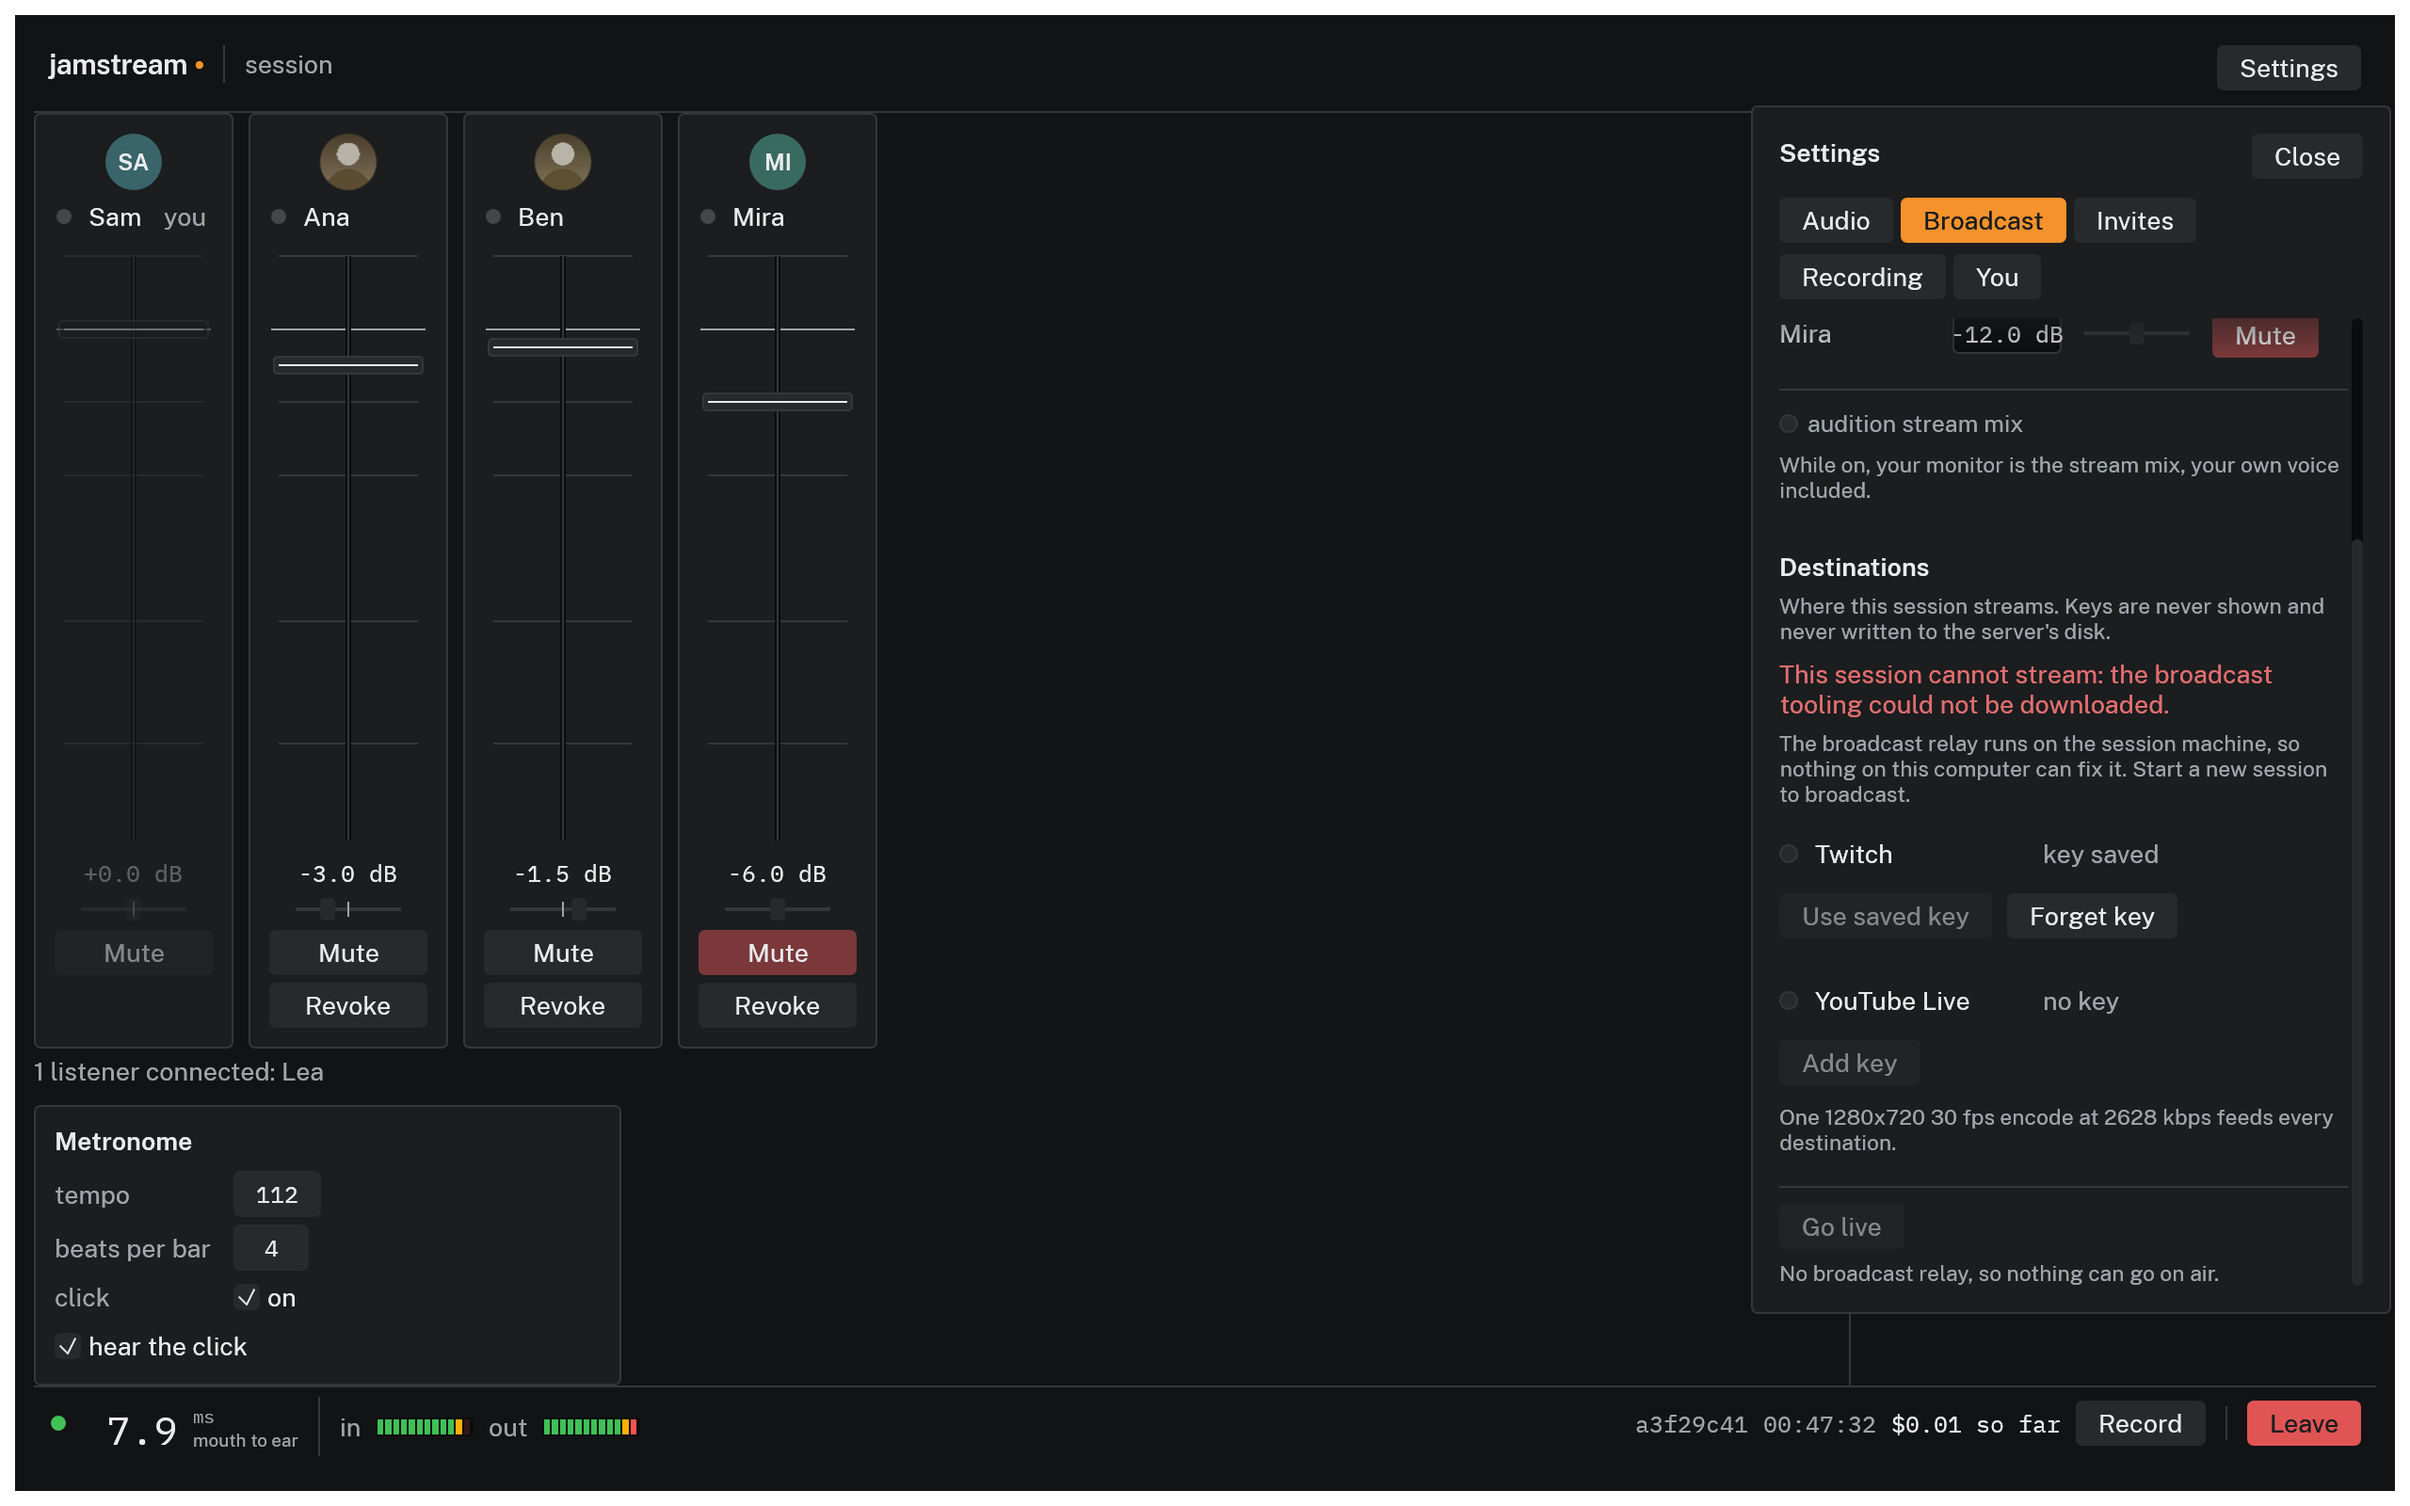
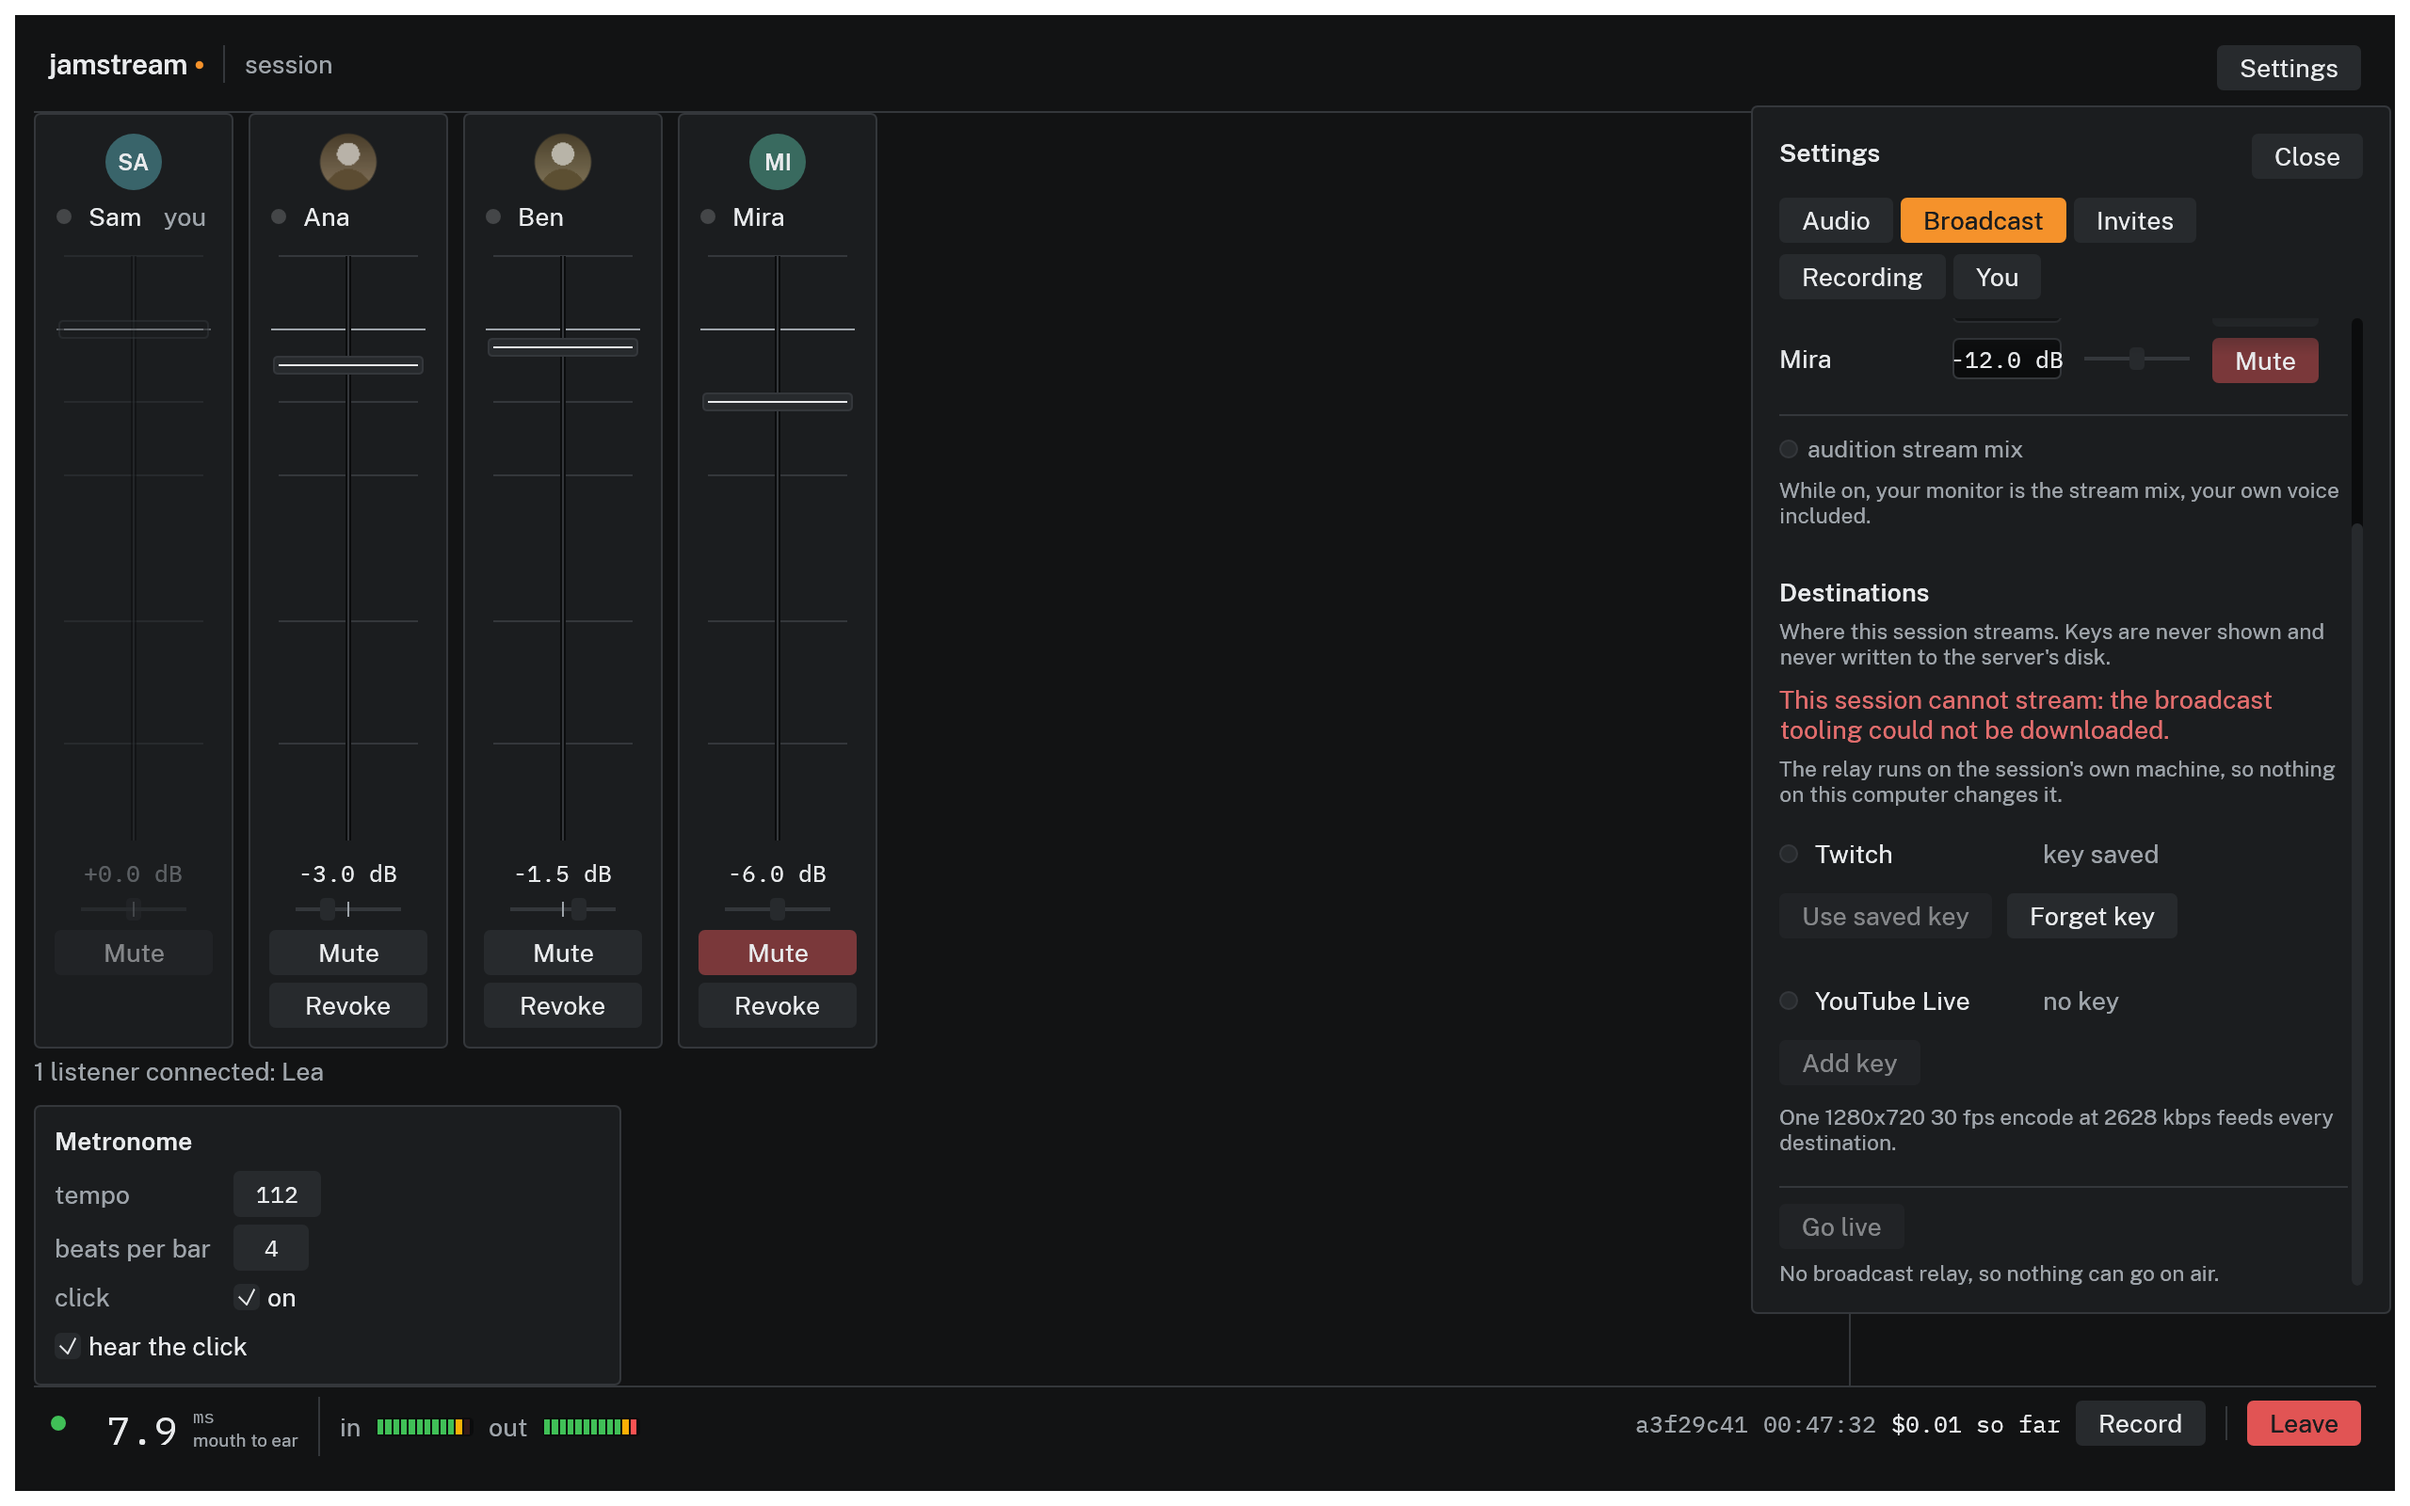
docs(client): keep the advice out of the tab and in the guide
The tab said to start a new session, which is the fix for a cloud
session and wrong for one hosted on the host's own machine, where the
answer is to install the tooling. This side cannot tell which it is
looking at, so it states the fact and the streaming guide covers both.

diff --git a/crates/client/src/screens/destinations.rs b/crates/client/src/screens/destinations.rs
@@ -352,12 +352,15 @@ impl DestinationsPanel {
         if let Some(reason) = snap.stream.unavailable_reason() {
             ui.add_space(theme::SPACE_XS);
             theme::reason(ui, cannot_stream_line(reason));
+            // No advice here on purpose. A cloud session is fixed by starting
+            // another one and a local session by installing the tooling, and
+            // this side cannot tell which it is looking at; the streaming
+            // guide can say both.
             ui.label(
                 theme::muted(
                     ui,
-                    "The broadcast relay runs on the session machine, so nothing \
-                     on this computer can fix it. Start a new session to \
-                     broadcast.",
+                    "The relay runs on the session's own machine, so nothing on \
+                     this computer changes it.",
                 )
                 .small(),
             );

diff --git a/site/src/guides/streaming.md b/site/src/guides/streaming.md
@@ -44,7 +44,7 @@ The **Broadcast** tab says so when it is missing, with the reason, and both **Ad
 ![The Broadcast tab reading that this session cannot stream because the broadcast tooling could not be downloaded, with Add key and Go live both disabled](../images/session_destinations_unavailable.png)
 *Nothing on this computer can fix this one: the relay is on the session machine.*
 
-The session server checks the relay every few seconds for as long as the session lasts, so this appears if the relay dies mid-session too, and clears if it comes back. Nothing on your computer affects it. To broadcast, start a new session.
+The session server checks the relay every few seconds for as long as the session lasts, so this appears if the relay dies mid-session too, and clears if it comes back. Nothing on your computer affects it: to broadcast, start another session. A session hosted on your own machine needs `ffmpeg` and `mediamtx` in `/usr/local/bin` instead.
 
 ## While you are on air
 
